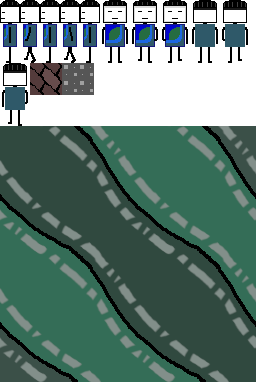
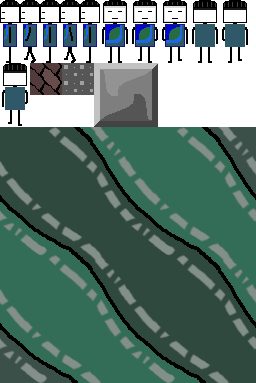
added new block

diff --git a/assets/ts/game/dev/row-edit.ts b/assets/ts/game/dev/row-edit.ts
@@ -11,7 +11,10 @@ export function enableRowEditMode() {
 }
 
 export function disableRowEditMode() {
+    console.log("off")
     editorDrag.touchEl.removeEventListener("pointerdown", down);
+    initialP = false;
+    if(placementModeState.isToggled) editorDrag.onDrag = placeBlock;
 }
 
 export const rowEditState = new ToggleState(() => {
@@ -19,7 +22,6 @@ export const rowEditState = new ToggleState(() => {
         enableRowEditMode();
     }
 }, () => {
-    if(placementModeState.isToggled) editorDrag.onDrag = placeBlock;
     disableRowEditMode();
 });
 
@@ -32,6 +34,7 @@ function down(e: PointerEvent) {
 }
 
 export function placeRow(rx: number, ry: number, x: number, y: number) {
+    console.log(0)
     const cursorX = floorToMultiples(player.x + x - player.halfWS - app.stage.position.x, blockSize) / blockSize;
     const cursorY = floorToMultiples(player.y + y - player.halfHS - app.stage.position.y, blockSize) / blockSize;
 

diff --git a/assets/ts/game/dev/studio.ts b/assets/ts/game/dev/studio.ts
@@ -8,7 +8,7 @@ import { copyLevel, finalizeEdits, placeBlock } from "./level-editor";
 import { blocksEl, blockSize, player, pw, wc } from "../../constants";
 import { scale, startStats, studio } from "./stats";
 import { devMoveModeState } from "./move";
-import { enableRowEditMode, rowEditHover, rowEditState } from "./row-edit";
+import { disableRowEditMode, enableRowEditMode, rowEditHover, rowEditState } from "./row-edit";
 
 export const studioState = new ToggleState(() => {
     studio.style.display = "block";
@@ -43,8 +43,11 @@ export const editorState = new ToggleState(() => {
     editorDrag.changeDefaultandNormalGrab("default");
     editorDrag.setCursorToDefault();
 
+    disableRowEditMode();
+
     finalizeEdits();
     list!.clear();
+    bgList!.clear();
 
     if(devMoveModeState.isToggled) devMoveModeState.toggle();
 });

diff --git a/index.html b/index.html
@@ -2,7 +2,7 @@
 <html lang="en-US" dir="ltr">
 <head>
     <meta charset="UTF-8">
-    <meta name="viewport" content="width=device-width, initial-scale=1.0">
+    <meta name="viewport" content="width=device-width, initial-scale=1.0, maximum-scale=1.0, user-scalable=0">
     <title>Platv2</title>
 
     <link rel="manifest" href="manifest.json">

diff --git a/assets/css/main.css b/assets/css/main.css
@@ -9,6 +9,15 @@ body {
     overflow: hidden;
     user-select: none;
     -webkit-touch-callout: none;
+    -webkit-user-select: none;
+}
+
+img {
+    -webkit-user-drag: none;
+    -moz-user-drag: none;
+    -o-user-drag: none;
+    -ms-user-drag: none;
+    user-drag: none;
 }
 
 #c {

diff --git a/assets/ts/canvas.ts b/assets/ts/canvas.ts
@@ -1,6 +1,5 @@
 import { $ } from "./lib/util";
 
-
 document.documentElement.style.setProperty("--h", innerHeight + "px");
 document.documentElement.style.setProperty("--w", innerWidth + "px");
 
